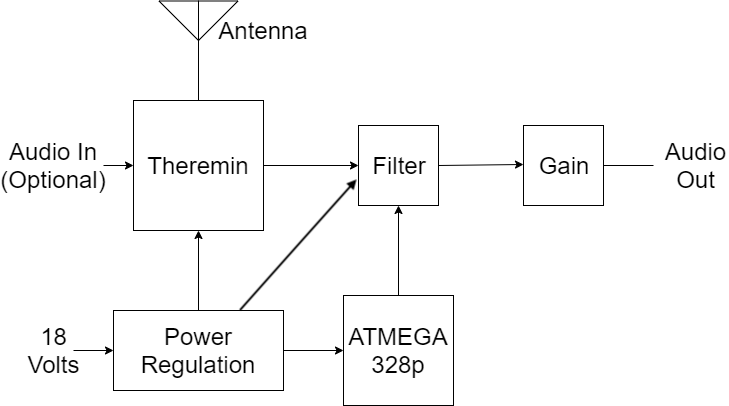
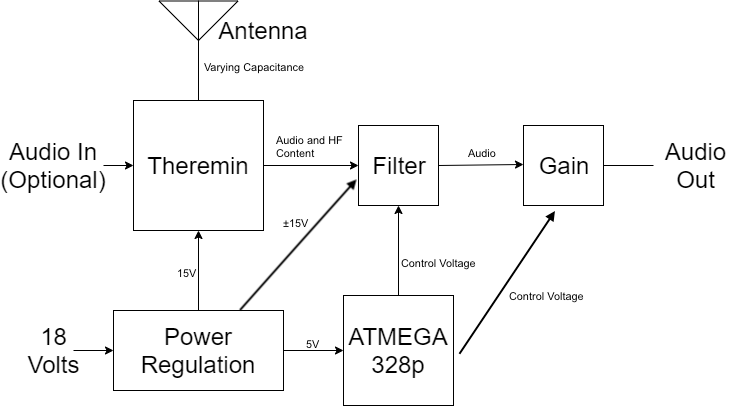
Added stuff to block diagram and slight change to header

diff --git a/PDS.tex b/PDS.tex
@@ -8,7 +8,7 @@
 % Commands ------------------------------------------------
 \newcommand{\authorname}{Almatouq, Brooks, Forsman, Roman}
 \newcommand{\classnumber}{ECE 411 - Group 18}
-\newcommand{\projectname}{Project Theremizer - v1.0}
+\newcommand{\projectname}{Project Theremizer - PDS - v1.0}
 
 \newcommand{\figOverlay}{\put(34,10){\color{black!50} \figWatermark}} % Figure overlay settings
 \newcommand{\figWatermark}{\small \authorname \; \today} 		% Figure overlay text
@@ -73,7 +73,7 @@
 
 
 \newenvironment{QandA}
-	{\begin{enumerate}[label=\arabic*.]\sl} % Use slanted question text and Arabic numerals
+	{\begin{enumerate}[label=\arabic*.]\sl} % Use slanted ques	tion text and Arabic numerals
   {\end{enumerate}}
 \newenvironment{answered}{\par\normalfont}{} % Paragraph break and use normal font
 
